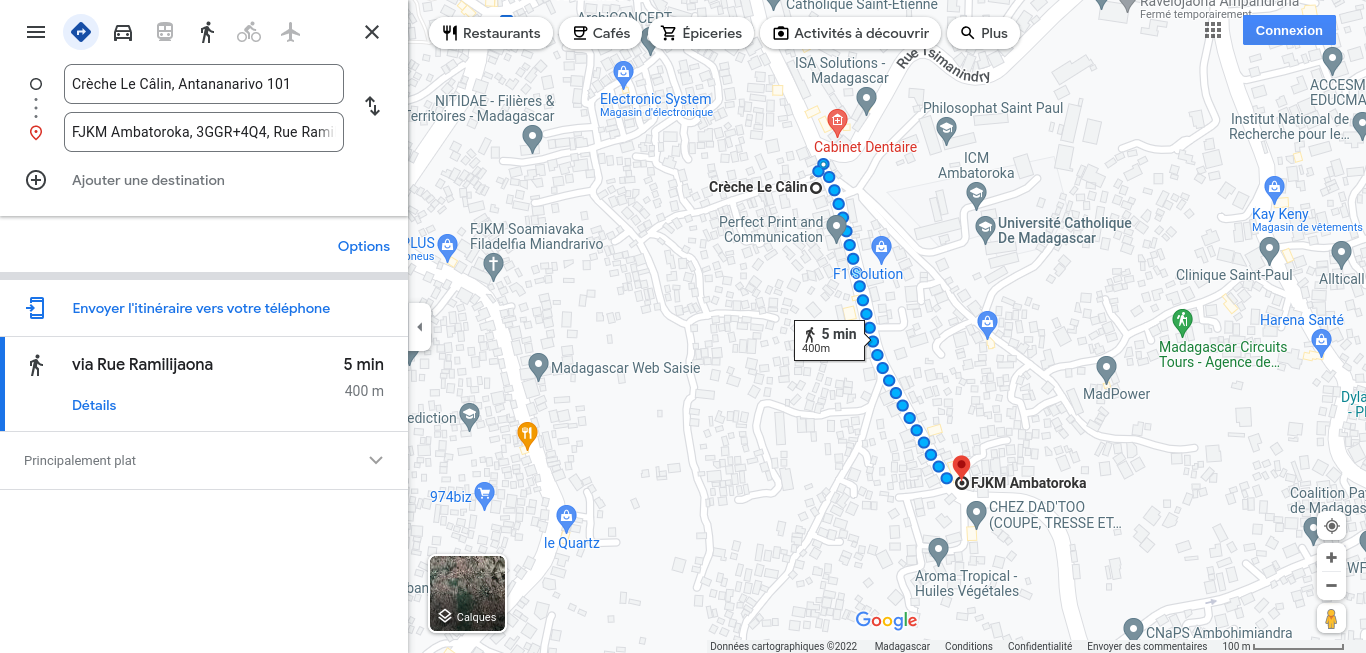
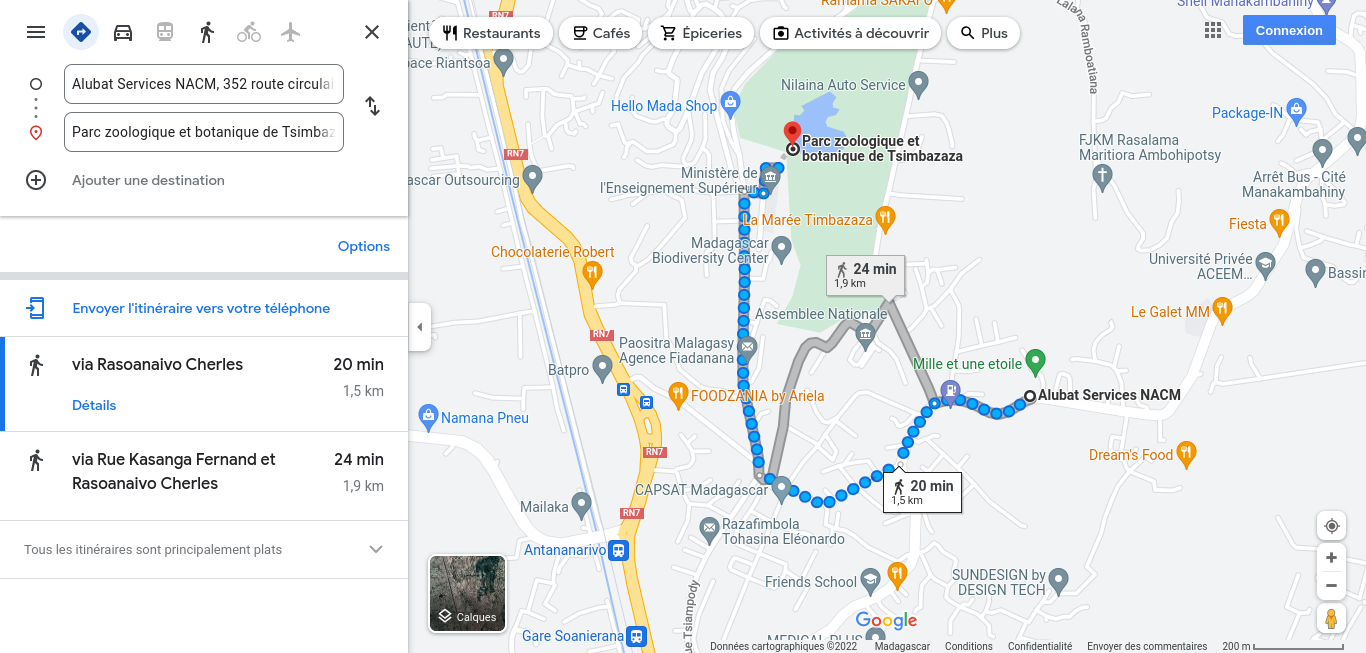
MAPSCRAPCLOSE

diff --git a/modules/scrapmap.py b/modules/scrapmap.py
@@ -44,9 +44,11 @@ class Scrapping:
             #WebDriverWait(browser, 10).until(EC.presence_of_all_elements_located((By.XPATH,"/html/body/div[3]/div[9]/div[9]/div/div/div[1]/div[2]/div/div[1]/div/div/div[4]/div/div[1]/div[3]/div[2]/h1[1]/span")))
             #resultats = browser.find_element(by.XPATH, "/html/body/div[3]/div[9]/div[9]/div/div/div[1]/div[2]/div/div[1]/div/div/div[4]/div/div[1]/div[3]/div[2]/h1[1]/span")
             
-                
+            
         except:
             pass
+        
+        browser.close()
 '''
 element_mail = browser.find_element(By.NAME,"email")
 element_mail.send_keys("angelo21.aps2b@gmail.com")
@@ -87,7 +89,7 @@ def croppingImage(name):
     
 if __name__ == '__main__':
     origine = 'Parc zoologique et botanique de Tsimbazaza, 3G9G+V6C, Antananarivo'
-    destination = "Jean de la Croix de la Trinité RAFANOMEZANTSOA"
+    destination = "Alubat Services NACM"
     execute = Scrapping(origine, destination)
     execute.scrap()
     name = str(origine + destination)
